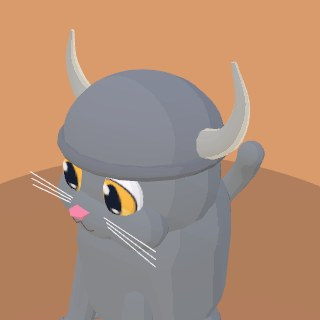
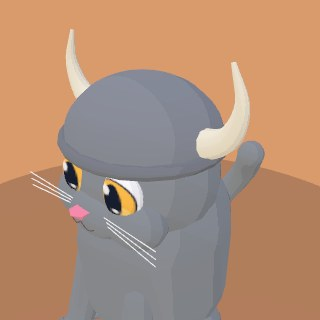
Mold accessory silhouettes and correct swept tube normals

Changed region(s): [[0.5938, 0.1875, 0.7812, 0.5], [0.1875, 0.0938, 0.2812, 0.3125]]

diff --git a/src/cat-accessories.js b/src/cat-accessories.js
@@ -105,19 +105,7 @@ export function createExtraAccessory(id, color, helpers) {
     cutAccessoryEarSlots: earSlots,
     neckBandGeo: neck,
   } = helpers;
-  // The legacy tube helper's side winding faces inward. Correct its sides
-  // here so new closed accessories can all use one front-sided material.
-  const tube = (points, r0, r1, segs, radial) => {
-    const g = taperedTube(points, r0, r1, segs, radial),
-      ix = g.index;
-    for (let i = 0; i < ix.count - radial * 6; i += 3) {
-      const b = ix.getX(i + 1);
-      ix.setX(i + 1, ix.getX(i + 2));
-      ix.setX(i + 2, b);
-    }
-    g.computeVertexNormals();
-    return g;
-  };
+  const tube = taperedTube;
   const key = `extra|${id}|${color}|${helpers.fitKey || "classic"}`,
     group = new THREE.Group(),
     parts = [],
@@ -152,6 +140,16 @@ export function createExtraAccessory(id, color, helpers) {
       c,
     );
   const cap = (profile, c = color, fn = null, segments = 24) => add(lathe(profile, segments, fn), c);
+  const paintSurface = (geo, sample) => {
+    const pos = geo.attributes.position,
+      rgb = new Float32Array(pos.count * 3),
+      c = new THREE.Color();
+    for (let i = 0; i < pos.count; i++) {
+      c.setHex(sample(pos.getX(i), pos.getY(i), pos.getZ(i)));
+      c.toArray(rgb, i * 3);
+    }
+    geo.setAttribute("color", new THREE.BufferAttribute(rgb, 3));
+  };
   const shape = (points, depth, c, x = 0, y = 0, z = 0) => {
     const s = new THREE.Shape();
     points.forEach(([a, b], i) => (i ? s.lineTo(a, b) : s.moveTo(a, b)));
@@ -189,18 +187,28 @@ export function createExtraAccessory(id, color, helpers) {
   switch (id) {
     case "propeller": {
       covered = true;
-      // Alternating four cloth panels share one batch, no texture or material per panel.
-      for (let i = 0; i < 4; i++)
-        add(
-          new THREE.SphereGeometry(0.65, 6, 7, (i * TAU) / 4, TAU / 4, 0, Math.PI / 2),
-          [color, 0x4ba8dd, 0xffcf42, 0x73c677][i],
-          0,
-          0.43,
-          0,
-          [1, 0.73, 1],
-        );
-      ring(0.63, 0.045, ivory, 0, 0.45, 0);
-      add(new THREE.CylinderGeometry(0.04, 0.04, 0.18, 8), dark, 0, 1.0, 0);
+      // Rolled hem, cloth dome and spindle are one continuous silhouette.
+      const dome = cap([
+        [0, 0.42],
+        [0.59, 0.42],
+        [0.65, 0.44],
+        [0.65, 0.48],
+        [0.61, 0.5],
+        [0.59, 0.64],
+        [0.48, 0.79],
+        [0.3, 0.89],
+        [0.1, 0.93],
+        [0.04, 0.96],
+        [0.04, 1.09],
+        [0, 1.09],
+      ]);
+      paintSurface(dome.geometry, (x, y, z) =>
+        y > 0.945
+          ? dark
+          : y < 0.5
+            ? ivory
+            : [color, 0x4ba8dd, 0xffcf42, 0x73c677][Math.floor((Math.atan2(x, z) + Math.PI) / (TAU / 4)) % 4],
+      );
       pivot("propeller", 0, 1.1, 0);
       for (let i = 0; i < 3; i++) {
         const a = (i * TAU) / 3,
@@ -356,8 +364,19 @@ export function createExtraAccessory(id, color, helpers) {
       add(new THREE.TubeGeometry(neckline, 24, 0.06, 5, true), color);
       add(new THREE.TubeGeometry(neckline, 24, 0.023, 5, true), dark, 0, -0.045, 0);
       // Single right-side communications headset; no antenna stalks.
-      ball(0.15, dark, 0.81, 0.13, 0.035, [0.45, 1, 1]);
-      ball(0.145, color, 0.865, 0.13, 0.035, [0.4, 1, 1]);
+      const cup = cap([
+        [0, -0.05],
+        [0.11, -0.05],
+        [0.145, -0.035],
+        [0.154, 0],
+        [0.15, 0.035],
+        [0.125, 0.065],
+        [0.08, 0.078],
+        [0, 0.078],
+      ]);
+      paintSurface(cup.geometry, (x, y) => (y < 0.015 ? dark : color));
+      cup.rotation.z = -Math.PI / 2;
+      cup.position.set(0.84, 0.13, 0.035);
       // Exactly one boom, attached to the right earcup, ends by the mouth.
       line(
         [
@@ -664,24 +683,75 @@ export function createExtraAccessory(id, color, helpers) {
       break;
     }
     case "duck": {
-      ball(0.2, color, 0, 0.87, 0.02, [1.2, 0.76, 1.2]);
-      ball(0.135, color, 0, 1.08, 0.15);
-      ball(0.1, 0xff8c36, 0, 1.055, 0.29, [1, 0.36, 0.85]);
-      for (const sx of [-1, 1]) {
-        ball(0.026, dark, sx * 0.092, 1.105, 0.232);
-        ball(0.11, 0xffe997, sx * 0.18, 0.88, 0.015, [0.35, 0.72, 1]);
-      }
-      ball(0.08, color, 0, 0.93, -0.18, [0.65, 0.8, 1.6]);
+      // One molded body rises through the neck into the head. The bill and
+      // tail are sculpted out of that same surface; eyes/wings are pigment.
+      const duck = cap(
+        [
+          [0, 0.72],
+          [0.14, 0.735],
+          [0.22, 0.77],
+          [0.25, 0.83],
+          [0.24, 0.89],
+          [0.2, 0.94],
+          [0.12, 0.98],
+          [0.095, 1.015],
+          [0.115, 1.04],
+          [0.135, 1.055],
+          [0.14, 1.075],
+          [0.14, 1.095],
+          [0.133, 1.12],
+          [0.115, 1.15],
+          [0.075, 1.18],
+          [0, 1.195],
+        ],
+        color,
+        (v, a) => {
+          const y = v.y,
+            front = Math.max(0, Math.cos(a)),
+            back = Math.max(0, -Math.cos(a));
+          v.z += 0.02 + 0.13 * THREE.MathUtils.smoothstep(y, 0.91, 1.055);
+          v.z += 0.13 * front ** 6 * Math.max(0, 1 - Math.abs(y - 1.055) / 0.035);
+          v.z -= 0.15 * back ** 8 * Math.max(0, 1 - Math.abs(y - 0.94) / 0.11);
+        },
+        32,
+      );
+      paintSurface(duck.geometry, (x, y, z) => {
+        if (z > 0.29 && y < 1.09) return 0xff8c36;
+        if (Math.abs(Math.abs(x) - 0.099) < 0.027 && Math.abs(y - 1.12) < 0.028 && z > 0.2) return dark;
+        if (Math.abs(x) > 0.2 && y > 0.78 && y < 0.92) return 0xffe997;
+        return color;
+      });
       break;
     }
     case "frog": {
       covered = true;
       hood();
       for (const sx of [-1, 1]) {
-        ball(0.21, color, sx * 0.33, 0.87, 0.18, [1, 1, 0.8]);
-        ball(0.13, ivory, sx * 0.33, 0.92, 0.31, [1, 1, 0.4]);
-        ball(0.072, dark, sx * 0.33, 0.93, 0.359, [0.8, 1.15, 0.3]);
-        ball(0.024, 0xffffff, sx * 0.33 - 0.02, 0.955, 0.38);
+        // The green socket, ivory eye and dark pupil are concentric zones
+        // on one unbroken forward-facing cup, with no floating overlays.
+        const eye = cap(
+          [
+            [0, -0.1],
+            [0.14, -0.08],
+            [0.2, -0.035],
+            [0.21, 0.02],
+            [0.18, 0.08],
+            [0.14, 0.115],
+            [0.125, 0.135],
+            [0.075, 0.151],
+            [0.067, 0.153],
+            [0.025, 0.163],
+            [0, 0.165],
+          ],
+          color,
+          null,
+          24,
+        );
+        paintSurface(eye.geometry, (x, y, z) =>
+          y < 0.12 ? color : y < 0.152 ? ivory : x < -0.012 && z > 0.008 && Math.hypot(x, z) < 0.04 ? 0xffffff : dark,
+        );
+        eye.rotation.x = Math.PI / 2;
+        eye.position.set(sx * 0.33, 0.89, 0.23);
       }
       break;
     }

diff --git a/src/models.js b/src/models.js
@@ -1081,7 +1081,7 @@ function cutAccessoryEarSlots(mesh, earType = "classic") {
 }
 // taperedTube: sweep a circle of shrinking radius along a curve — one smooth
 // molded piece for horns and the like (TubeGeometry can't taper).
-function taperedTube(pts, r0, r1, segs = 14, radial = 10) {
+export function taperedTube(pts, r0, r1, segs = 14, radial = 10) {
   const curve = new THREE.CatmullRomCurve3(pts);
   const frames = curve.computeFrenetFrames(segs, false);
   const pos = [],
@@ -1105,11 +1105,10 @@ function taperedTube(pts, r0, r1, segs = 14, radial = 10) {
     for (let j = 0; j < radial; j++) {
       const a = i * (radial + 1) + j,
         b2 = a + radial + 1;
-      idx.push(a, b2, a + 1, a + 1, b2, b2 + 1);
+      idx.push(a, a + 1, b2, a + 1, b2 + 1, b2);
     }
   // End caps (fans to the curve's endpoints) so the sweep reads SOLID from
-  // every angle — an open tube shows its hollow mouth. Pair the mesh with a
-  // DoubleSide material so cap winding never matters.
+  // every angle — sides and caps both face outward.
   const c0 = curve.getPoint(0),
     c1 = curve.getPoint(1);
   const bi = pos.length / 3;

diff --git a/docs/art-refresh/HANDOFF-RESULTS.md b/docs/art-refresh/HANDOFF-RESULTS.md
@@ -27,3 +27,9 @@ Local browser warm builds across all 40 presets averaged 0.066 ms; beanies avera
 Ear fronts/backs use coat-aware vertex pigments and one shared ear surface. Matte cat pieces and solid kart paint also share materials by surface role. A palette-independent procedural ink atlas preserves fixed gold stars/ivory spots while vertex pigment supplies the custom fabric colour; recolours share materials and retain the existing single texture sample. Ear-slot cutting now interpolates vertex pigment as well as normals/UVs.
 
 The same six-preset field measured 82 → 48 source materials and 18 → 12 mapped textures (the separate ink atlas is shared across recolours). Material transparency pixels, geometry/batch budgets, explicit red/blue wizard pigment preservation and shared-atlas assertions pass. Both accessory backends and 738 variants pass. Wizard front and mushroom side renders were visually inspected. Runtime catalog thumbnails were regenerated; review screenshots remain outside the repository.
+
+## 5. Molded accessories
+
+Rebuilt the duck as one sculpted body/neck/head with an integrated bill and tail, the frog eyes as continuous painted cups, the beanie hem/dome/spindle as one surface, and the right helmet earcup as a single cushion/shell profile. Fixed tapered-tube side winding at its source and removed the accessory workaround; a triangle-normal check covers sides and both caps.
+
+Front, side and top renders of all four were inspected. Full accessory variants and batch/triangle budgets, art integrity, smoke and web build checks pass. Runtime catalog thumbnails were refreshed. No additional runtime animation or material passes were introduced.
